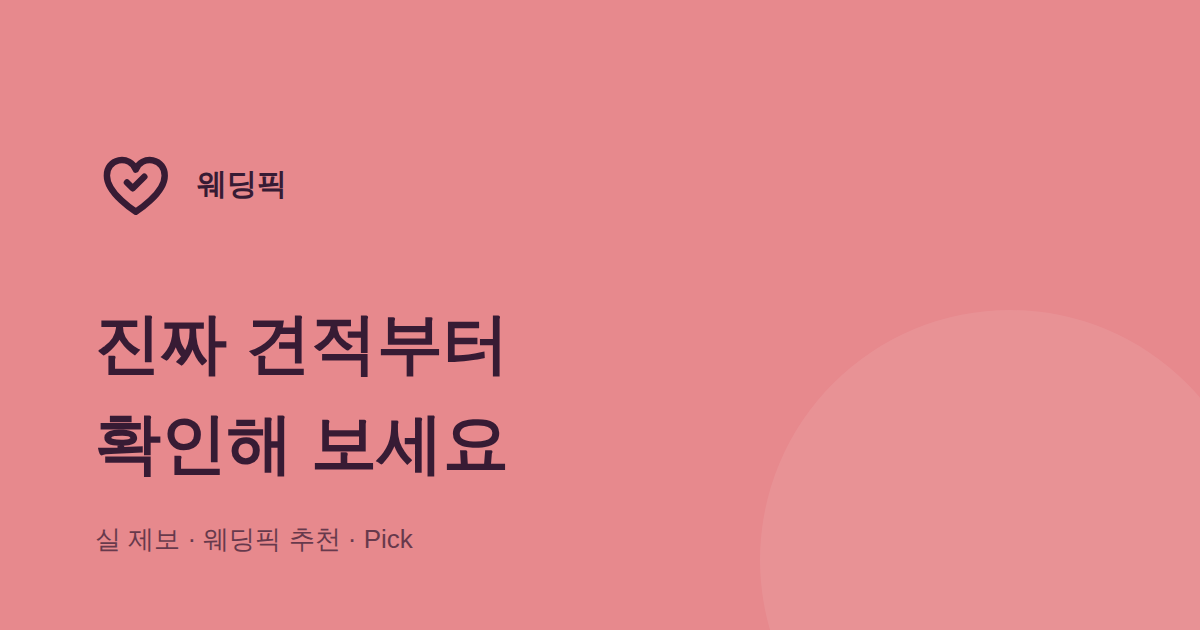
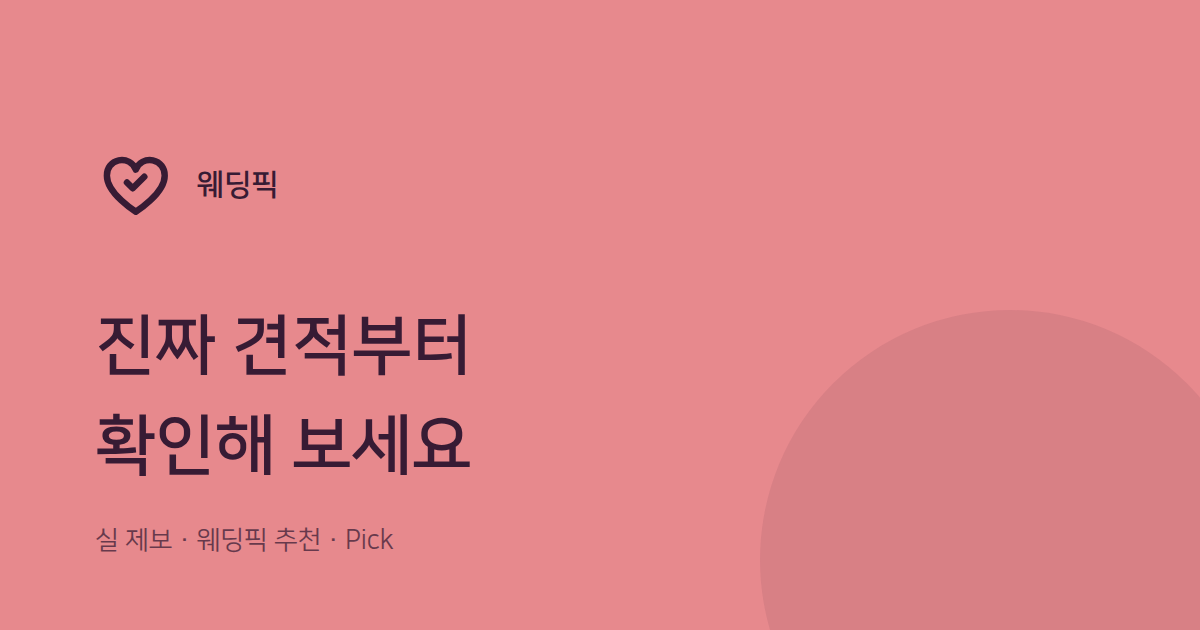
feat(brand): 머지 후 남은 코랄 자리 마저 정리 — design-tokens · 차트 · 컴포넌트 파생
머지로 드러난 자리들이다. 낡은 base에서는 보이지 않았다.

packages/ui/src/design-tokens.ts (main이 09-09 이후 더한 파일)
- brand 6값 교체 + onPrimary · accent 추가 · chart 3계열 · appIcon · chip.brand* ·
  progressTrack.fill
- 머리말을 사실대로 고쳤다: 이 파일이 이름으로 가리키는 생성기
  scripts/sync-design-tokens.mjs가 저장소에 없고, 이 파일을 import 하는 곳도 없다.
  핸드오프 tokens.json은 아직 v3.10(2026-09-04)이라 옛 코랄을 담고 있어서, 값은
  핸드오프가 아니라 spec/tokens.json을 따른다고 적었다.

spec/tokens.json
- component.pickPill.onBorder · chip.brandBorder — 머지로 새로 들어온 파생 2건

packages/ui/src/theme.ts
- chartSeries1~3을 spec color.chart에 맞췄다(#e7898d · #f4bfc1 · #f8ddde)
- 써클 로더 주석은 시안이 적은 값이라 그대로 두고, 실제로 그리는 색이 tint라는 것만 덧붙였다
  (circle-loader.tsx는 theme.tint를 쓰므로 코드는 이미 새 색이다)

apps/web OG 카드
- 손으로 고쳤던 SVG를 되돌리고 생성기(src/og-image.ts)가 뽑은 것으로 바꿨다. 그 생성기는
  이미 spec/tokens.json의 brand.primary · onPrimary를 읽으므로 색을 따로 박을 자리가 없었다.
- PNG는 apps/web/README.md가 적은 절차대로 fonts-nanum + headless_shell로 다시 구웠다
  (chromium --headless는 아래 83px을 자른다고 그 문서가 경고한다). 1200×630 확인.

Claude-Session: https://claude.ai/code/session_01KVQ1sSpgR6Svx3hRcwAQ4L

diff --git a/packages/ui/src/design-tokens.ts b/packages/ui/src/design-tokens.ts
@@ -1,5 +1,13 @@
-// Generated by scripts/sync-design-tokens.mjs from docs/design-handoff/current/tokens.json.
-// Edit the source, then regenerate.
+// 원래 scripts/sync-design-tokens.mjs가 docs/design-handoff/current/tokens.json에서 뽑던 스냅샷이다.
+// **그 생성기는 지금 이 저장소에 없다.** 그리고 이 파일을 import 하는 곳도 없다(git grep DesignTokens).
+//
+// 2026-09-14 대표님이 키 컬러를 코랄 #FF6F61에서 #E7898D로 바꾸셨고, 핸드오프 tokens.json은 아직
+// v3.10(2026-09-04)이라 옛 코랄을 담고 있다. 그래서 아래 brand · chart · skin 밖 파생색 · appIcon ·
+// component 값은 **핸드오프가 아니라 spec/tokens.json을 따른다** — 그쪽이 코드가 읽는 원본이다
+// (CLAUDE.md: 값은 spec/tokens.json에서만 가져온다).
+//
+// 핸드오프가 새 색으로 갱신되면 이 파일이 아니라 그쪽을 고치고 생성기를 되살려 다시 뽑는다.
+// color.skin은 대표님이 「차후 진행」으로 미루신 블록이라 코랄 그대로 뒀다.
 export const DesignTokens = {
   "$schema": "weddingpick-design-tokens/1.0",
   "project": "웨딩픽 (WeddingPick)",
@@ -8,12 +16,14 @@ export const DesignTokens = {
   "note": "SEED Design System (Karrot) 기반. Primary만 웨딩픽 코랄로 교체. 값은 모두 확정값이며 임의로 바꾸지 않는다.",
   "color": {
     "brand": {
-      "primary": "#FF6F61",
-      "primaryPressed": "#EE6255",
-      "primaryDark": "#C2453A",
-      "primaryTint": "#FFE8E4",
-      "primarySurface": "#FFF5F2",
-      "primaryBorder": "#FFD9D4"
+      "primary": "#E7898D",
+      "primaryPressed": "#D87D80",
+      "primaryDark": "#C63F45",
+      "primaryTint": "#FBEBEC",
+      "primarySurface": "#FDF6F6",
+      "primaryBorder": "#F9DFE0",
+      "onPrimary": "#371B34",
+      "accent": "#ECA0A3"
     },
     "text": {
       "primary": "#212124",
@@ -56,9 +66,9 @@ export const DesignTokens = {
       "pillOnImage": "rgba(0,0,0,.5)"
     },
     "chart": {
-      "series1": "#FF6F61",
-      "series2": "#FFB3AB",
-      "series3": "#FFD6D1",
+      "series1": "#E7898D",
+      "series2": "#F4BFC1",
+      "series3": "#F8DDDE",
       "seriesRest": "#EAEBEE"
     }
   },
@@ -560,9 +570,9 @@ export const DesignTokens = {
       "관리자 사이드바"
     ],
     "appIcon": {
-      "background": "#FF6F61",
-      "mark": "#FFFFFF",
-      "note": "스킨과 무관하게 고정"
+      "background": "#E7898D",
+      "mark": "#371B34",
+      "note": "스킨과 무관하게 고정. 마크가 흰색이 아닌 이유는 spec/tokens.json symbol.appIcon 참고"
     }
   },
   "tabBar": {
@@ -649,8 +659,8 @@ export const DesignTokens = {
       "defaultBorder": "1px solid #DCDEE3",
       "recessedBg": "#F7F8FA",
       "recessedBorder": "none",
-      "brandBg": "#FFF5F2",
-      "brandBorder": "1px solid #FFD9D4"
+      "brandBg": "#FDF6F6",
+      "brandBorder": "1px solid #F9DFE0"
     },
     "sheet": {
       "radius": "20px 20px 0 0",
@@ -677,7 +687,7 @@ export const DesignTokens = {
       "height": 6,
       "radius": 999,
       "bg": "#EAEBEE",
-      "fill": "#FF6F61"
+      "fill": "#E7898D"
     },
     "stackedBar": {
       "height": 10,

diff --git a/packages/ui/src/theme.ts b/packages/ui/src/theme.ts
@@ -146,10 +146,10 @@ const palette = {
   calendarSunday: '#e8735f',
   calendarSaturday: '#5b8def',
 
-  /* 차트 계열 — spec/tokens.json color.chart. 코랄 계열 셋 + 나머지 회색. 스킨과 무관하게 고정. */
-  chartSeries1: '#ff6f61',
-  chartSeries2: '#ffb3ab',
-  chartSeries3: '#ffd6d1',
+  /* 차트 계열 — spec/tokens.json color.chart. 키 컬러 계열 셋 + 나머지 회색. 스킨과 무관하게 고정. */
+  chartSeries1: '#e7898d',
+  chartSeries2: '#f4bfc1',
+  chartSeries3: '#f8ddde',
   chartSeriesRest: '#eaebee',
 
   /*
@@ -281,7 +281,7 @@ export const Colors = {
     tintDark: palette.coralDark,
     /** @deprecated primaryDark의 옛 이름. `tintDark`를 쓴다. */
     tintStrong: palette.coralDark,
-    /** 옅은 코랄 배지·아바타. brand.primaryTint(#FFE8E4). */
+    /** 옅은 배지·아바타. brand.primaryTint(#FBEBEC · 구 #FFE8E4). */
     tintSubtle: palette.coralTint,
     /** 코랄 카드 · Pick 완료 버튼 배경. brand.primarySurface. */
     tintSurface: palette.coralSurface,
@@ -807,7 +807,8 @@ export const Layout = {
    * 기본 로더 · 써클 — 지름 3크기 · 테두리 두께. size.loaderCircle.
    *
    * 값의 출처는 `17-sheets-states.dc.html`(WP-ST-012)의 `spinner`다 —
-   * `width:32px;height:32px;border:3px solid #eaebee;border-top-color:#ff6f61`.
+   * `width:32px;height:32px;border:3px solid #eaebee;border-top-color:#ff6f61`
+   * (시안이 적은 값이다 — 실제로 그리는 색은 `tint`라 지금은 `#e7898d`다).
    * 지름은 순회 로더와 같은 자리 이름(20·28·40)을 쓰고, 두께는 시안의 32:3을
    * 정수 px로 반올림했다(20→2 · 28→3 · 40→4).
    */
